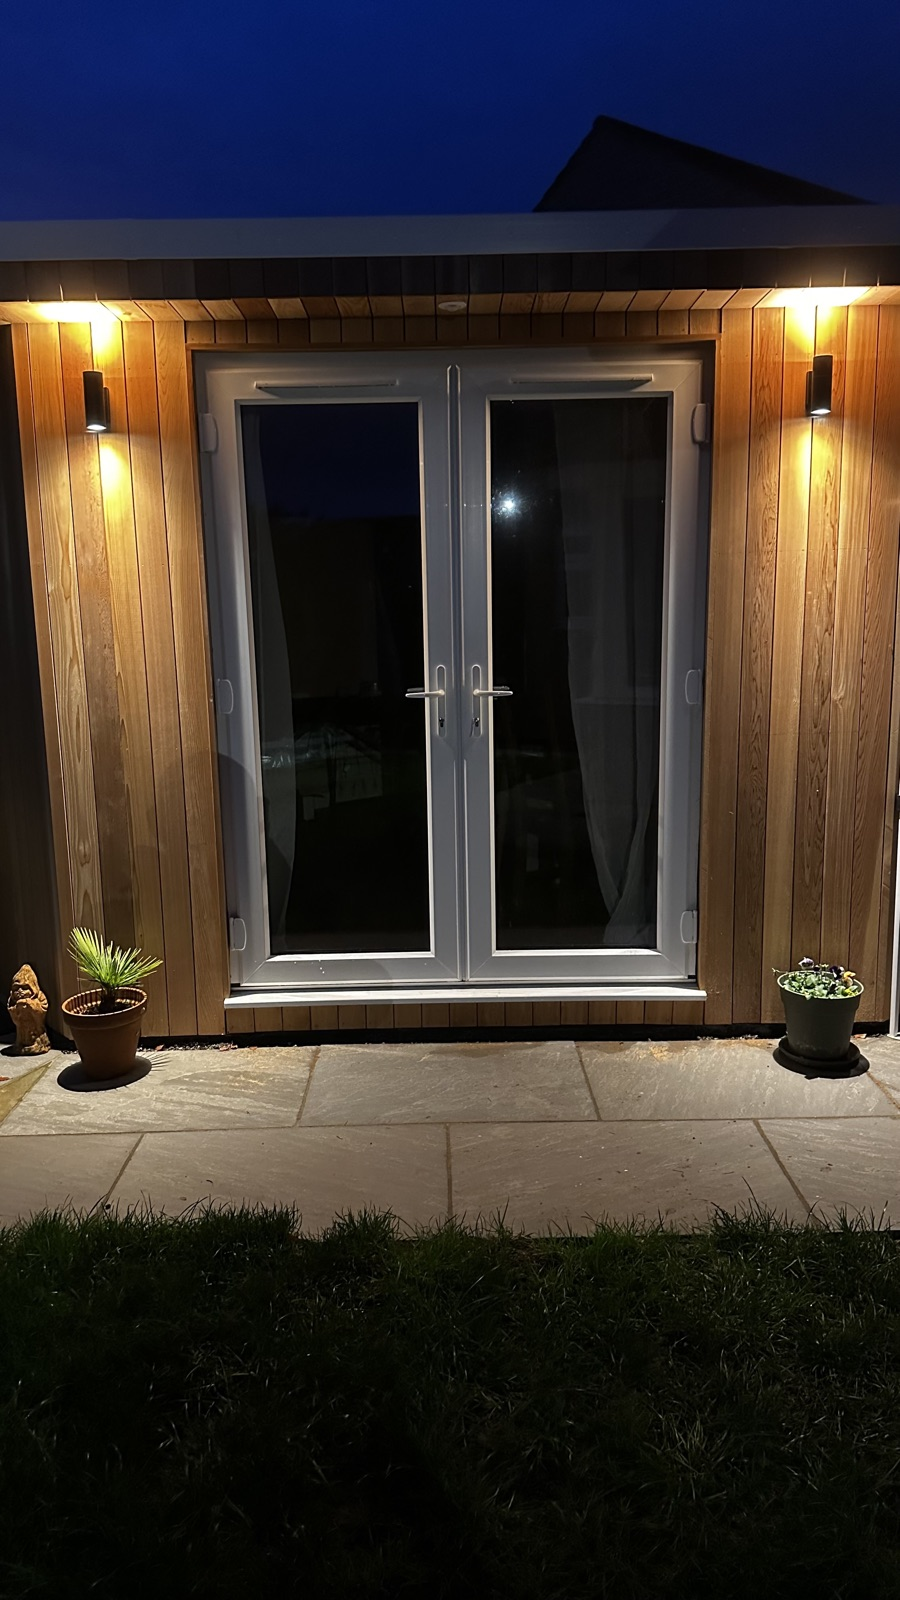
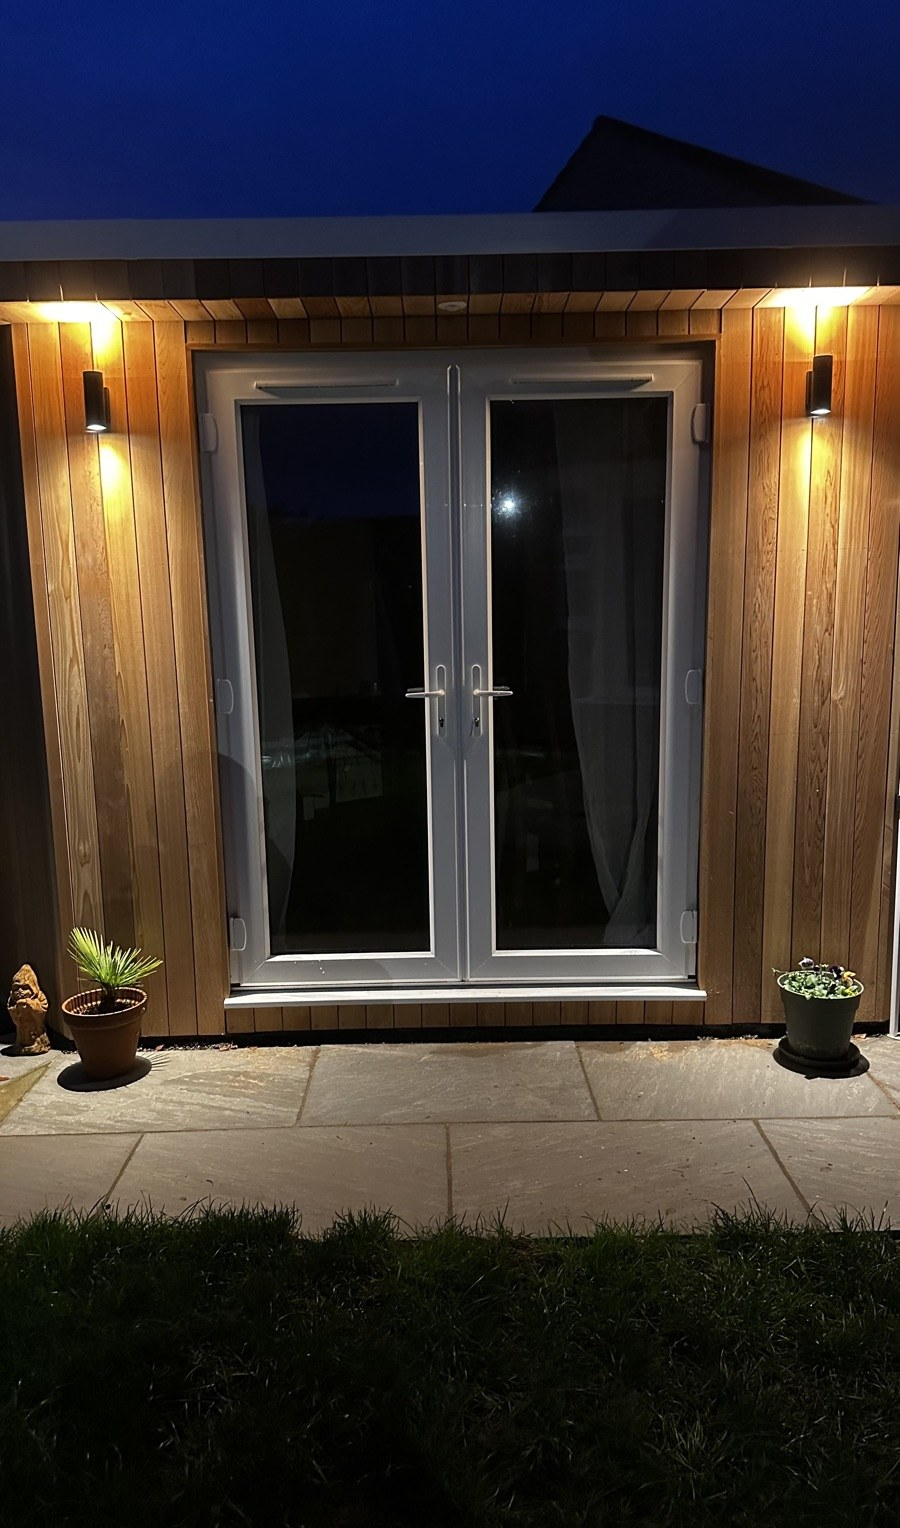
Image cleanup: crop black borders + remove luxury-pendants duplicate
Auto-detected black-border letterboxing on 9 photos (mostly portrait
phone screenshots with status-bar / nav-bar bands left in). Cropped
all to remove the dead pixels and regenerated WebP variants.

| Image | Before | After |
|---|---|---|
| luxury-kitchen.jpg | 738x1600 | 738x985 (full letterbox) |
| atmospheric-kitchen.jpg | 738x1600 | 738x1280 |
| firstfix-1.jpg | 738x1600 | 738x1280 |
| firstfix-2.jpg | 738x1600 | 738x1280 |
| low-level-lighting.jpg | 738x1600 | 738x1280 |
| swa-cable.jpg | 738x1600 | 738x1280 |
| vaulted-modern.jpg | 737x1600 | 737x1280 |
| garden-room-lighting.jpg | 900x1600 | 900x1528 |

Also removed photos/luxury-pendants.{jpg,webp} — was a byte-for-byte
duplicate of atmospheric-kitchen.jpg (created on 2026-04-16 as an
emergency placeholder for a corrupted file). Updated the single
homepage reference in index.html to point at atmospheric-kitchen.jpg
with the same descriptive alt text.

Updated 7 width/height attributes across 3 HTML files to match the
new natural dimensions (avoids CLS regression).

Originals backed up locally to photos/.pre-crop-20260423/ (gitignored).

diff --git a/gallery.html b/gallery.html
@@ -219,7 +219,7 @@
    <div class="item-overlay"><span>Domestic</span></div>
   </div>
   <div class="gallery-item" data-cat="domestic" onclick="openLightbox(this)">
-   <picture><source srcset="photos/atmospheric-kitchen.webp" type="image/webp"><img src="photos/atmospheric-kitchen.jpg" alt="Atmospheric kitchen lighting with industrial pendants by DS Electrical" loading="lazy" width="738" height="1600"></picture>
+   <picture><source srcset="photos/atmospheric-kitchen.webp" type="image/webp"><img src="photos/atmospheric-kitchen.jpg" alt="Atmospheric kitchen lighting with industrial pendants by DS Electrical" loading="lazy" width="738" height="1280"></picture>
    <div class="item-overlay"><span>Lighting Design</span></div>
   </div>
   <div class="gallery-item" data-cat="domestic" onclick="openLightbox(this)">
@@ -239,11 +239,11 @@
    <div class="item-overlay"><span>Barn Conversion</span></div>
   </div>
   <div class="gallery-item" data-cat="domestic" onclick="openLightbox(this)">
-   <picture><source srcset="photos/vaulted-modern.webp" type="image/webp"><img src="photos/vaulted-modern.jpg" alt="Modern vaulted kitchen lighting by DS Electrical" loading="lazy" width="737" height="1600"></picture>
+   <picture><source srcset="photos/vaulted-modern.webp" type="image/webp"><img src="photos/vaulted-modern.jpg" alt="Modern vaulted kitchen lighting by DS Electrical" loading="lazy" width="737" height="1280"></picture>
    <div class="item-overlay"><span>Domestic</span></div>
   </div>
   <div class="gallery-item" data-cat="commercial" onclick="openLightbox(this)">
-   <picture><source srcset="photos/firstfix-1.webp" type="image/webp"><img src="photos/firstfix-1.jpg" alt="Commercial first-fix conduit and cable routing on blockwork by DS Electrical" loading="lazy" width="738" height="1600"></picture>
+   <picture><source srcset="photos/firstfix-1.webp" type="image/webp"><img src="photos/firstfix-1.jpg" alt="Commercial first-fix conduit and cable routing on blockwork by DS Electrical" loading="lazy" width="738" height="1280"></picture>
    <div class="item-overlay"><span>Commercial First Fix</span></div>
   </div>
   <div class="gallery-item" data-cat="commercial" onclick="openLightbox(this)">
@@ -251,7 +251,7 @@
    <div class="item-overlay"><span>Ceiling Install</span></div>
   </div>
   <div class="gallery-item" data-cat="commercial" onclick="openLightbox(this)">
-   <picture><source srcset="photos/swa-cable.webp" type="image/webp"><img src="photos/swa-cable.jpg" alt="SWA armoured cable joint for outdoor supply by DS Electrical" loading="lazy" width="738" height="1600"></picture>
+   <picture><source srcset="photos/swa-cable.webp" type="image/webp"><img src="photos/swa-cable.jpg" alt="SWA armoured cable joint for outdoor supply by DS Electrical" loading="lazy" width="738" height="1280"></picture>
    <div class="item-overlay"><span>Outdoor SWA</span></div>
   </div>
   <div class="gallery-item" data-cat="commercial" onclick="openLightbox(this)">
@@ -346,7 +346,7 @@
   </div>
 
   <div class="gallery-item" data-cat="lighting" onclick="openLightbox(this)">
-   <img src="photos/garden-room-lighting.jpg" alt="Garden room with warm wall lights on cedar cladding at dusk" loading="lazy" width="900" height="1600">
+   <img src="photos/garden-room-lighting.jpg" alt="Garden room with warm wall lights on cedar cladding at dusk" loading="lazy" width="900" height="1528">
    <div class="item-overlay"><span>Lighting</span></div>
   </div>
   <div class="gallery-item" data-cat="fire" onclick="openLightbox(this)">

diff --git a/index.html b/index.html
@@ -307,7 +307,7 @@
  <p class="section-desc">Every project wired right, certified, and handed over clean.</p>
  <div class="services-grid">
   <a href="/gallery.html" class="svc">
-   <picture><source srcset="photos/luxury-kitchen.webp" type="image/webp"><img src="photos/luxury-kitchen.jpg" alt="Modern kitchen with pendant lights by DS Electrical" loading="lazy" width="738" height="1600"></picture>
+   <picture><source srcset="photos/luxury-kitchen.webp" type="image/webp"><img src="photos/luxury-kitchen.jpg" alt="Modern kitchen with pendant lights by DS Electrical" loading="lazy" width="738" height="985"></picture>
    <div class="svc-overlay"><h3>Domestic & Rewires</h3><p>Full and partial rewires, consumer unit upgrades, kitchen and bathroom circuits, pendant lighting, socket additions, fault finding and extension work. Barn conversions, listed buildings and new-builds. Every job BS 7671 tested and NAPIT certified.</p></div>
   </a>
   <a href="/commercial-electrical.html" class="svc">
@@ -417,7 +417,7 @@
 <!-- REVIEWS -->
 <section class="reviews" id="reviews">
  <div class="reviews-photo">
-  <img src="photos/luxury-pendants.jpg?v=2" alt="Luxury kitchen with pendant lights and glass cabinets by DS Electrical" loading="lazy" width="737" height="1600">
+  <img src="photos/atmospheric-kitchen.jpg?v=3" alt="Luxury kitchen with pendant lights and glass cabinets by DS Electrical" loading="lazy" decoding="async" width="738" height="1280">
  </div>
  <div class="reviews-body">
   <div class="section-tag">Client Reviews</div>

diff --git a/blog-cost-to-rewire-house-2026.html b/blog-cost-to-rewire-house-2026.html
@@ -279,7 +279,7 @@ article td.price{color:var(--brass);font-weight:700;font-family:'JetBrains Mono'
 <figure class="photo-block">
  <picture>
   <source srcset="/photos/firstfix-1.webp" type="image/webp">
-  <img src="/photos/firstfix-1.jpg" alt="First fix wiring during a house rewire — new cable runs throughout the property" loading="lazy" width="780" height="420">
+  <img src="/photos/firstfix-1.jpg" alt="First fix wiring during a house rewire — new cable runs throughout the property" loading="lazy" width="738" height="1280">
  </picture>
  <figcaption>First fix in progress — new cable runs in place before plastering begins. This is the stage that determines every socket and switch position for the life of the property.</figcaption>
 </figure>
